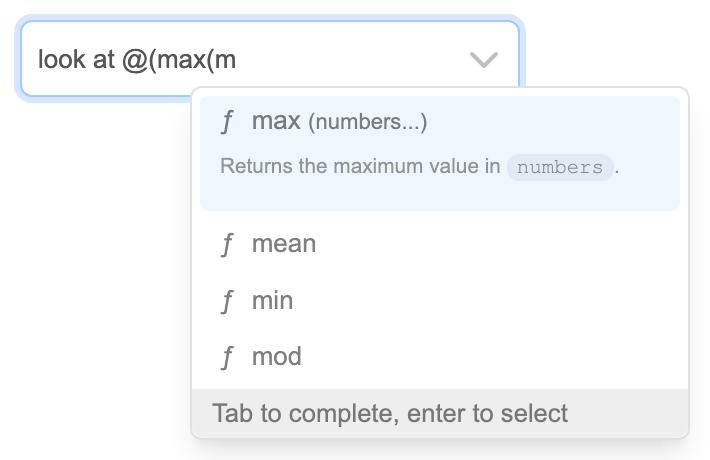
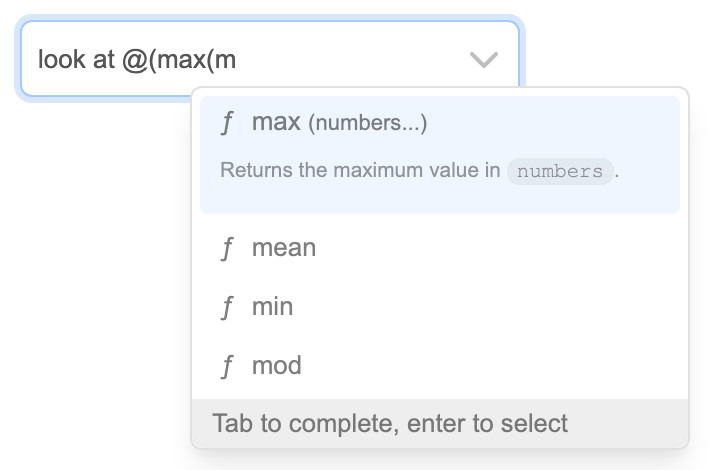
Update screenshots

diff --git a/test-assets/style.css b/test-assets/style.css
@@ -122,7 +122,8 @@ html {
   --temba-select-selected-padding: 9px;
   --temba-select-selected-line-height: normal;
   --temba-select-selected-font-size: 13px;
-
+  --temba-options-font-size: 1em;
+  
   --help-text-margin-top: 0px;
   --help-text-margin-left: 0.3em;
   --help-text-size: 0.85em;

diff --git a/src/alert/Alert.ts b/src/alert/Alert.ts
@@ -42,7 +42,7 @@ export class Alert extends LitElement {
   public render(): TemplateResult {
     return html`
       <div class="temba-alert temba-${this.level}">
-        ${this.level === 'info' ? 'info' : ''}
+        <slot></slot>
       </div>
     `;
   }

diff --git a/test/temba-list.test.ts b/test/temba-list.test.ts
@@ -30,6 +30,7 @@ describe('temba-list', () => {
       endpoint: '/test-assets/list/temba-list.json',
     });
     expect(list.items.length).to.equal(4);
+    // debugger;
     await assertScreenshot('list/items', getClip(list));
   });
 

diff --git a/src/options/Options.ts b/src/options/Options.ts
@@ -103,7 +103,6 @@ export class Options extends RapidElement {
         border-radius: 4px;
         margin: 4px;
         cursor: pointer;
-        line-height: 1.1;
         color: var(--color-text-dark);
       }
 
